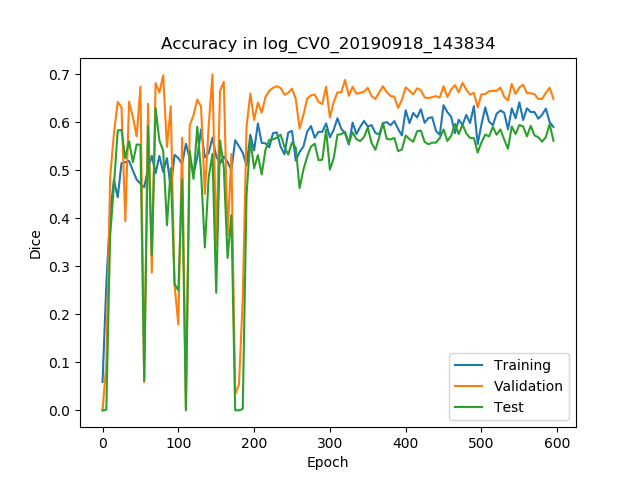
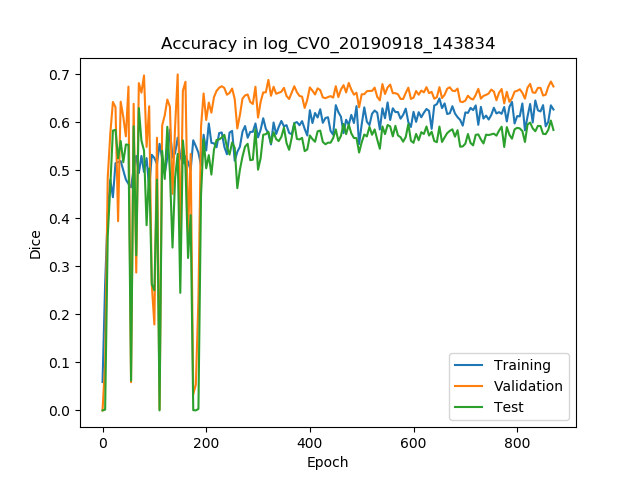
update log

diff --git a/Tools/generateLatexReport2.py b/Tools/generateLatexReport2.py
@@ -44,7 +44,27 @@ Test Result Description:
 3  The topleft subimage is original input image, title is formated Raw:ID_s{slice};  
 
 List Dice for all patients:
-*********
+PatiantID	Dice
+05431967	0.70550
+05722020	0.73781
+05096005	0.69400
+03864522	0.61908
+05088264	0.56666
+05430021	0.87353
+04641905	0.60258
+04477716	0.33847
+05056196	0.69583
+05498934	0.87504
+05311044	0.54239
+04029173	0.15008
+
+The Total average Dice is 61.26%, in which there is patient has extreme low dice. 
+
+Simple Analysis:
+1  Dice results in different patients has big difference: 87% vs 15%;
+2  Big cancer gets better result;
+3  Various Cancer texture give challenge, maybe more training sample will help.   
+
 
 \end{verbatim}
 

diff --git a/Tools/visualizeSegResult.py b/Tools/visualizeSegResult.py
@@ -11,7 +11,7 @@ def main():
     imageDir = "/home/hxie1/data/OvarianCancerCT/primaryROI/nrrd_npy"
     groundTruthDir = "/home/hxie1/data/OvarianCancerCT/primaryROI/labels_npy"
     predictDir = "/home/hxie1/data/OvarianCancerCT/primaryROI/predictionResult"
-    diceFile = os.path.join(predictDir, "predict_CV0_20190916_163347.txt")   # need to modify
+    diceFile = os.path.join(predictDir, "predict_CV0_20190918_143834.txt")   # need to modify
 
     suffix = ".npy"
     originalCwd = os.getcwd()
